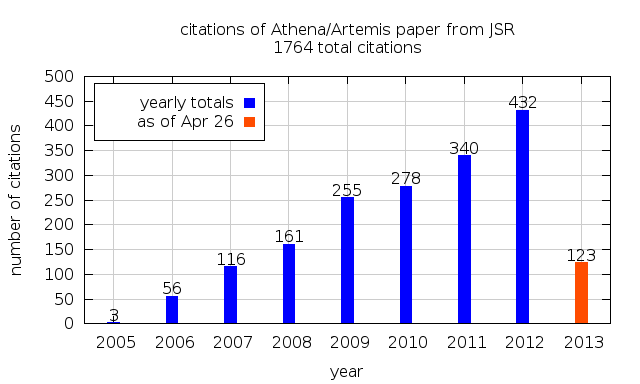
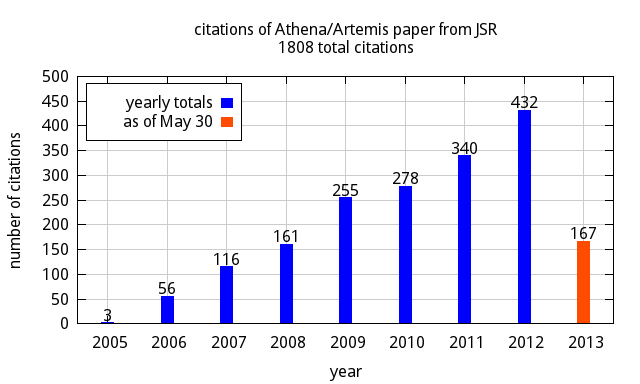
update citation count for A&A paper

diff --git a/cv.tex b/cv.tex
@@ -104,8 +104,8 @@ Research Project: XAFS Studies of Half-Metallic Heusler Alloys
   training materials.  Several times each year, I teach XAS training
   courses at synchrotrons and other institutions around the
   world. \newline{} The publication introducing \textsc{athena},
-  \textsc{artemis}, and \textsc{hephaestus} has over 1770 citations as
-  of April, 2013, making it the highest cited article in the Journal
+  \textsc{artemis}, and \textsc{hephaestus} has over 1800 citations as
+  of May, 2013, making it the highest cited article in the Journal
   of Synchrotron Radiation.}
 
 \cvline{Inform XAS analysis using local structure theory}%
